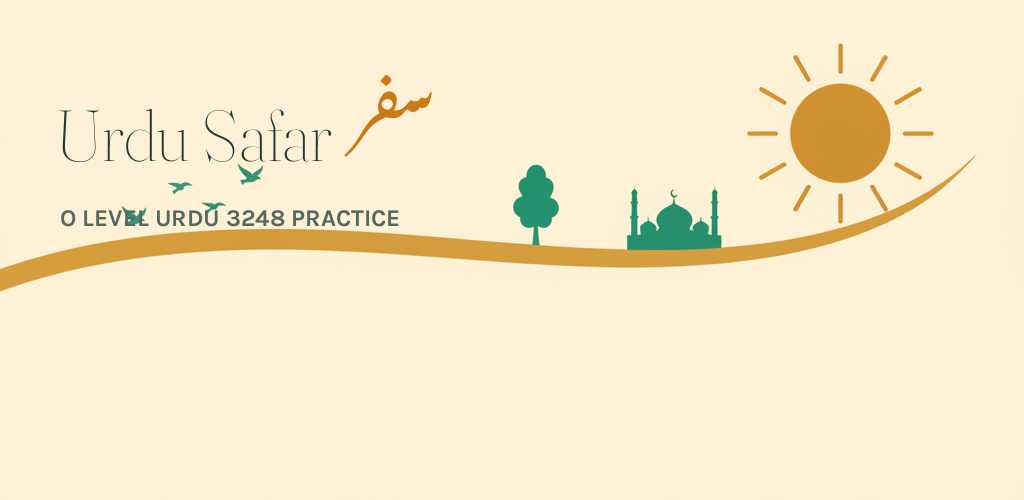
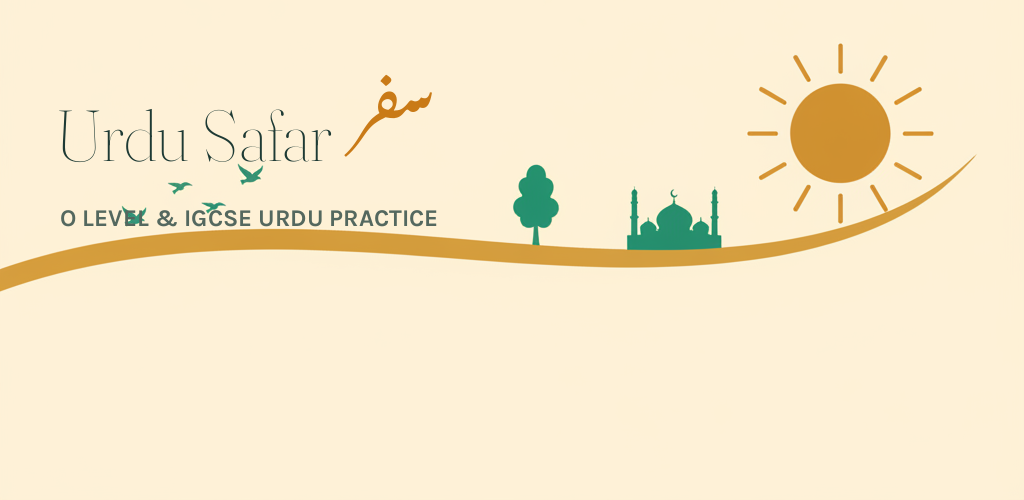
Rebrand to cover both O Level and IGCSE Urdu, per user's syllabus review
The user reviewed both Cambridge O Level Urdu (3248) and IGCSE Urdu
(0539) and confirmed this app's topics/skills are generic to both, so
naming and copy now say "O Level & IGCSE" instead of just "O Level 3248":
in-app tagline, feature graphic, privacy policy, terms & conditions, and
the Play Console listing kit (app name, descriptions). The two syllabi's
differing exam components (e.g. paper structure) are still called out
honestly wherever the copy used to cite paper numbers.

Also fixes a layout regression the longer tagline exposed: .topbar had
no wrap protection, so "Urdu Safar" itself started wrapping once the
tagline text grew. .brand now gets flex-shrink:0 + white-space:nowrap,
and .topbar wraps the tagline to its own line instead when needed.

Screenshots 01 and 02 recaptured with the corrected header; feature
graphic regenerated from the same background art via
scripts/compose_feature_graphic.py (no new Gemini call needed).

Changed region(s): [[0.1562, 0.42, 0.4375, 0.45]]

diff --git a/store-assets/terms-and-conditions.html b/store-assets/terms-and-conditions.html
@@ -51,7 +51,7 @@
   <p class="updated">Last updated: 17 September 2026</p>
 
   <h2>Using the app</h2>
-  <p>Urdu Safar is an exam-practice study aid for O Level Urdu (Second Language, Cambridge syllabus 3248). It's provided free of charge, for personal, non-commercial study use.</p>
+  <p>Urdu Safar is an exam-practice study aid for Cambridge O Level and IGCSE Urdu. It's provided free of charge, for personal, non-commercial study use.</p>
 
   <h2>Accounts</h2>
   <p>You can use Urdu Safar without an account. If you choose to create one, you agree to:</p>
@@ -72,7 +72,7 @@
   <p>We may remove a group or account that we find is being used to violate these terms.</p>
 
   <h2>Content and accuracy</h2>
-  <p>Urdu Safar's practice content is written to reflect the Cambridge O Level Urdu (3248) syllabus as understood at the time of writing, for exam-practice purposes. It is a study aid, not an official Cambridge publication, and is provided without warranty of exam outcome — always check the current official syllabus and past papers from Cambridge International as your primary reference.</p>
+  <p>Urdu Safar's practice content covers vocabulary, reading, writing, and grammar topics common to both the Cambridge O Level Urdu (Second Language, 3248) and IGCSE Urdu (Foreign Language, 0539) syllabi, as understood at the time of writing, for exam-practice purposes. The two syllabi differ in some exam components (for example, exact paper structure), so it is a study aid, not an official Cambridge publication, and is provided without warranty of exam outcome — always check the current official syllabus and past papers for your specific qualification from Cambridge International as your primary reference.</p>
 
   <h2>No warranty; limitation of liability</h2>
   <p>Urdu Safar is provided "as is," without warranties of any kind. To the fullest extent permitted by law, we are not liable for any indirect, incidental, or consequential damages arising from your use of the app, including exam results.</p>

diff --git a/dist/app.html b/dist/app.html
@@ -77,10 +77,10 @@
   #app{ max-width:760px; margin:0 auto; padding:20px 18px 64px; }
 
   .topbar{
-    display:flex; align-items:baseline; justify-content:space-between;
+    display:flex; align-items:baseline; justify-content:space-between; flex-wrap:wrap;
     padding:10px 2px 18px; border-bottom:2px solid var(--rule); margin-bottom:22px;
   }
-  .brand{ display:flex; align-items:baseline; gap:10px; }
+  .brand{ display:flex; align-items:baseline; gap:10px; flex-shrink:0; white-space:nowrap; }
   .brand .en{ font-size:26px; font-weight:600; letter-spacing:.2px; }
   .brand .ur-mark{ font-size:22px; color:var(--marigold); }
   .tagline{ font-size:12.5px; color:var(--ink-soft); letter-spacing:.06em; text-transform:uppercase; }
@@ -925,7 +925,7 @@ function renderSignup(){
   app.innerHTML = `
     <div class="topbar">
       <div class="brand"><span class="en display">Urdu Safar</span><span class="ur-mark ur">سفر</span></div>
-      <div class="tagline">O&nbsp;Level&nbsp;Urdu&nbsp;3248&nbsp;Practice</div>
+      <div class="tagline">O&nbsp;Level&nbsp;&amp;&nbsp;IGCSE&nbsp;Urdu&nbsp;Practice</div>
     </div>
     <div class="card signup-card">
       <div class="rule-title">Welcome! What should we call you?</div>
@@ -1117,7 +1117,7 @@ function renderHome(){
   app.innerHTML = `
     <div class="topbar">
       <div class="brand"><span class="en display">Urdu Safar</span><span class="ur-mark ur">سفر</span></div>
-      <div class="tagline">O&nbsp;Level&nbsp;Urdu&nbsp;3248&nbsp;Practice</div>
+      <div class="tagline">O&nbsp;Level&nbsp;&amp;&nbsp;IGCSE&nbsp;Urdu&nbsp;Practice</div>
     </div>
 
     <div class="player-row">

diff --git a/store-assets/privacy-policy.html b/store-assets/privacy-policy.html
@@ -62,7 +62,7 @@
   <span class="badge">No account is required to use this app. An account is only created if you choose to sign up.</span>
 
   <h2>What this app does</h2>
-  <p>Urdu Safar is a study app for O Level Urdu (Second Language, Cambridge syllabus 3248) exam practice: vocabulary drills, reading and grammar exercises, translation practice, and writing prompts. It also offers an optional friend-group leaderboard.</p>
+  <p>Urdu Safar is a study app for Cambridge O Level and IGCSE Urdu exam practice: vocabulary drills, reading and grammar exercises, translation practice, and writing prompts. It also offers an optional friend-group leaderboard.</p>
 
   <h2>Using the app as a guest (no account)</h2>
   <p>By default, Urdu Safar works entirely offline. You pick a nickname (stored only on your device) to track your own progress and appear on a leaderboard saved only on that device. No email, password, or other personal information is collected, and nothing is sent to any server.</p>

diff --git a/src/app.js b/src/app.js
@@ -577,7 +577,7 @@ function renderSignup(){
   app.innerHTML = `
     <div class="topbar">
       <div class="brand"><span class="en display">Urdu Safar</span><span class="ur-mark ur">سفر</span></div>
-      <div class="tagline">O&nbsp;Level&nbsp;Urdu&nbsp;3248&nbsp;Practice</div>
+      <div class="tagline">O&nbsp;Level&nbsp;&amp;&nbsp;IGCSE&nbsp;Urdu&nbsp;Practice</div>
     </div>
     <div class="card signup-card">
       <div class="rule-title">Welcome! What should we call you?</div>
@@ -769,7 +769,7 @@ function renderHome(){
   app.innerHTML = `
     <div class="topbar">
       <div class="brand"><span class="en display">Urdu Safar</span><span class="ur-mark ur">سفر</span></div>
-      <div class="tagline">O&nbsp;Level&nbsp;Urdu&nbsp;3248&nbsp;Practice</div>
+      <div class="tagline">O&nbsp;Level&nbsp;&amp;&nbsp;IGCSE&nbsp;Urdu&nbsp;Practice</div>
     </div>
 
     <div class="player-row">

diff --git a/src/styles.css b/src/styles.css
@@ -72,10 +72,10 @@
   #app{ max-width:760px; margin:0 auto; padding:20px 18px 64px; }
 
   .topbar{
-    display:flex; align-items:baseline; justify-content:space-between;
+    display:flex; align-items:baseline; justify-content:space-between; flex-wrap:wrap;
     padding:10px 2px 18px; border-bottom:2px solid var(--rule); margin-bottom:22px;
   }
-  .brand{ display:flex; align-items:baseline; gap:10px; }
+  .brand{ display:flex; align-items:baseline; gap:10px; flex-shrink:0; white-space:nowrap; }
   .brand .en{ font-size:26px; font-weight:600; letter-spacing:.2px; }
   .brand .ur-mark{ font-size:22px; color:var(--marigold); }
   .tagline{ font-size:12.5px; color:var(--ink-soft); letter-spacing:.06em; text-transform:uppercase; }

diff --git a/scripts/compose_feature_graphic.py b/scripts/compose_feature_graphic.py
@@ -66,7 +66,7 @@ def main():
     ur_y = en_bottom - ur_h - ur_bbox[1] - 6
     draw.text((ur_x, ur_y), "سفر", font=nastaliq, fill=MARIGOLD)
 
-    draw.text((en_x + 4, en_bottom + 40), "O LEVEL URDU 3248 PRACTICE", font=karla, fill=INK_SOFT)
+    draw.text((en_x + 4, en_bottom + 40), "O LEVEL & IGCSE URDU PRACTICE", font=karla, fill=INK_SOFT)
 
     out_path = "store-assets/feature-graphic-1024x500.png"
     bg.save(out_path)

diff --git a/docs/play-console-listing-kit.md b/docs/play-console-listing-kit.md
@@ -8,7 +8,7 @@ to happen in your own browser — this doc exists so that's fast.
 ## 1. Create the app
 
 Play Console → **Create app**:
-- App name: `Urdu Safar`
+- App name: `Safar: Urdu O Level & IGCSE`
 - Default language: English (United States) — or English (India) if that reads better for your audience
 - App or game: **App**
 - Free or paid: **Free**
@@ -16,50 +16,50 @@ Play Console → **Create app**:
 
 ## 2. Store listing text
 
-**App name** (30 char max): `Urdu Safar`
+**App name** (30 char max): `Safar: Urdu O Level & IGCSE` (27 chars)
 
 **Short description** (80 char max):
 ```
-Practice O Level Urdu (3248): vocabulary, grammar, reading & writing skills
+Learn Urdu as a Second Language for Cambridge O Level and IGCSE exams
 ```
 
 **Full description** (4000 char max):
 ```
-Urdu Safar is a focused practice app for students preparing for Cambridge O Level Urdu — Second Language (syllabus 3248, for the 2027-2029 exams).
+Urdu Safar is a focused practice app for students preparing for Cambridge O Level Urdu (Second Language, 3248) or IGCSE Urdu (Foreign Language, 0539) — the two Cambridge Urdu qualifications share most of the same core vocabulary, topics, and skills, and Urdu Safar practices exactly those.
 
-Instead of another textbook, Urdu Safar turns the whole syllabus into bite-sized, repeatable practice:
+Instead of another textbook, Urdu Safar turns exam prep into bite-sized, repeatable practice:
 
 VOCABULARY PRACTICE
-Spaced-repetition flashcards covering 170+ words across every topic, a mixed word-match quiz, and a 30-idiom drill for Paper 2 — the single most requested skill for this exam.
+Spaced-repetition flashcards covering 170+ words across every topic, a mixed word-match quiz, and a 30-idiom drill — the single most requested skill for these exams.
 
 17 ESSAY TOPICS, FULLY WORKED
-Every topic in the syllabus (Home & Family, School Life, Festivals & Culture, and more) with vocabulary, reading, writing, and grammar practice at three difficulty levels, plus a cultural note for context.
+Every core topic (Home & Family, School Life, Festivals & Culture, and more) with vocabulary, reading, writing, and grammar practice at three difficulty levels, plus a cultural note for context.
 
 10 SKILLS, WITH SAMPLE ANSWERS
 Letter-writing, dialogue, and other functional-writing genres with model answers and guided prompts.
 
-READING SKILLS (Paper 1)
-Short-answer questions, multiple matching, and note-making — the exact exercise types on the real paper, with lenient answer-checking that accepts natural spelling variation.
+READING SKILLS
+Short-answer questions, multiple matching, and note-making, with lenient answer-checking that accepts natural spelling variation.
 
-GRAMMAR LAB (Paper 2)
+GRAMMAR LAB
 Sentence transformation and multiple-choice cloze passages, with difficulty levels to build up from the basics.
 
-TRANSLATION (Paper 2)
+TRANSLATION
 English-to-Urdu sentence-building warm-ups plus full passage translation with a model answer and checklist.
 
 SUMMARY WRITING & EXTENDED WRITING
-Condense a passage to under 100 words, or write a full ~200-word composition with a clear purpose, format, and audience — the highest-value single exercise on the exam — each with a model answer to self-assess against.
+Condense a passage to under 100 words, or write a full ~200-word composition with a clear purpose, format, and audience, each with a model answer to self-assess against.
 
 PROGRESS & MOTIVATION
 Earn gold, silver, and bronze medals as you go. Track your practice with a personal leaderboard, and — if you sign in — create a private friend group to compare progress with classmates, synced across devices.
 
 Works fully offline. No account is ever required — signing in is optional, only needed for the friend-group leaderboard.
 
-Urdu Safar is an independent study aid built around the Cambridge O Level Urdu 3248 syllabus; it is not an official Cambridge publication. Always check the current syllabus and past papers from Cambridge International as your primary reference.
+Urdu Safar is an independent study aid; it is not an official Cambridge publication. The O Level and IGCSE Urdu syllabi differ in some exam components (such as exact paper structure), so always check the current official syllabus and past papers for your specific qualification from Cambridge International as your primary reference.
 ```
 
 **Category:** Education
-**Tags:** exam prep, Urdu, language learning, O Level, Cambridge
+**Tags:** exam prep, Urdu, language learning, O Level, IGCSE, Cambridge
 
 **Contact details:**
 - Email: homi55@gmail.com
